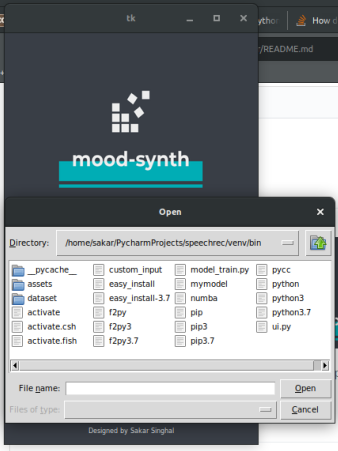
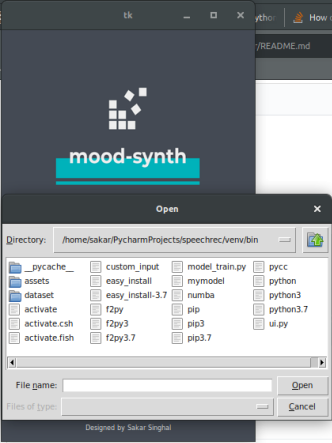
minor

diff --git a/venv/bin/ui.py b/venv/bin/ui.py
@@ -62,7 +62,7 @@ panel.pack(side=TOP)
 
 if not os.path.exists('mymodel'):
     model_train.main()
-lbl=Label(top,text="Designed by Sakar Singhal",background='#393e46',foreground='#ecf0f1')
+lbl=Label(top,text="Developed by Sakar Singhal",background='#393e46',foreground='#ecf0f1')
 lbl.config(font=('',8))
 lbl.pack(side=BOTTOM)
 btn=Button(top,text="Choose your file",command=clicked,borderwidth=0,background='#00adb5',highlightthickness=0,foreground='#ecf0f1',width=100,height=2)
